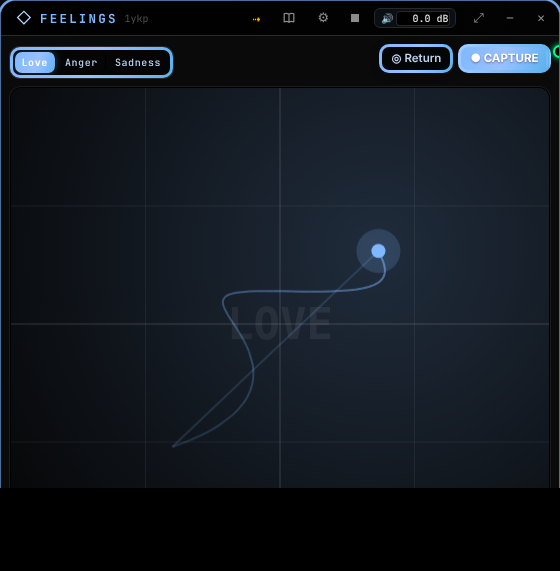
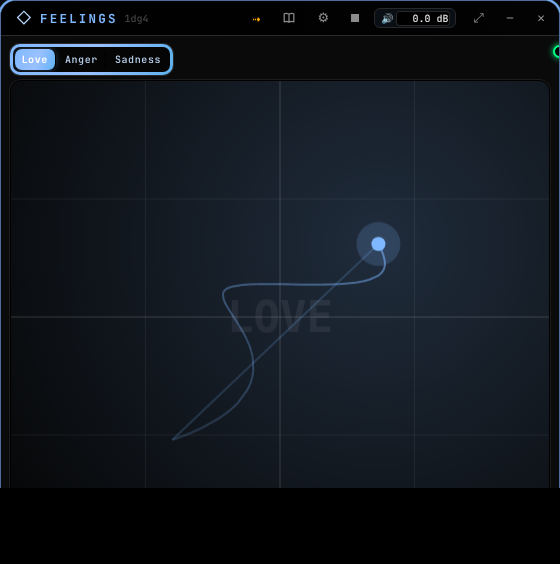
Feelings pad preview: no Capture, no Return
Claude-Session: https://claude.ai/code/session_0143r3SNNw34KFGp8x897eiC

diff --git a/docs/previews/feeling-song.preview.js b/docs/previews/feeling-song.preview.js
@@ -37,11 +37,9 @@
       const x = px * W, y = py * H; g.fillStyle = 'rgba(127,184,255,.18)'; g.beginPath(); g.arc(x, y, 22, 0, 6.283); g.fill();
       g.fillStyle = '#7fb8ff'; g.beginPath(); g.arc(x, y, 7, 0, 6.283); g.fill();
     }, 30);
-    const cap = UI.Button({ label: '● CAPTURE', kind: 'primary', hint: 'records your drag: a feeling lane and notes on the Timeline', onClick: () => {} });
-    const ret = UI.Button({ label: '◎ Return', hint: 'glide back to the middle', onClick: () => {} });
     const seg = UI.Segmented ? UI.Segmented({ options: [{ value: 'love', label: 'Love' }, { value: 'anger', label: 'Anger' }, { value: 'sadness', label: 'Sadness' }], value: feeling, onChange: (v) => { feeling = v; } }) : null;
     view.__feel = (v) => { feeling = v; };
     view.root.style.display = 'flex'; view.root.style.flexDirection = 'column';
-    view.root.append(h('div', { class: 'org-row', style: { justifyContent: 'space-between' } }, [seg ? seg.el : UI.presetBar(view), h('div', { class: 'org-row' }, [ret.el, cap.el])]), cv);
+    view.root.append(h('div', { class: 'org-row', style: { justifyContent: 'space-between' } }, [seg ? seg.el : UI.presetBar(view)]), cv);
   });
 })();
